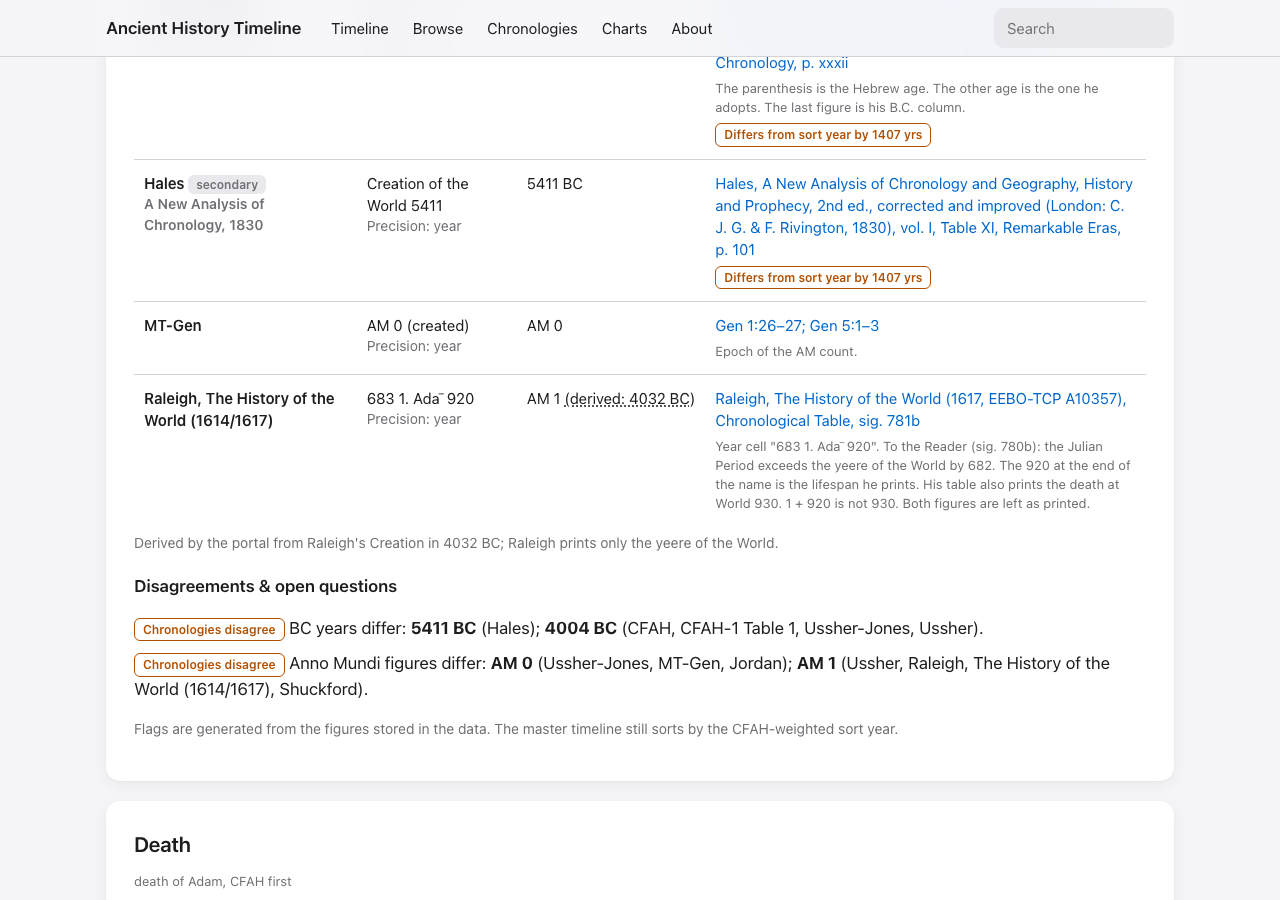
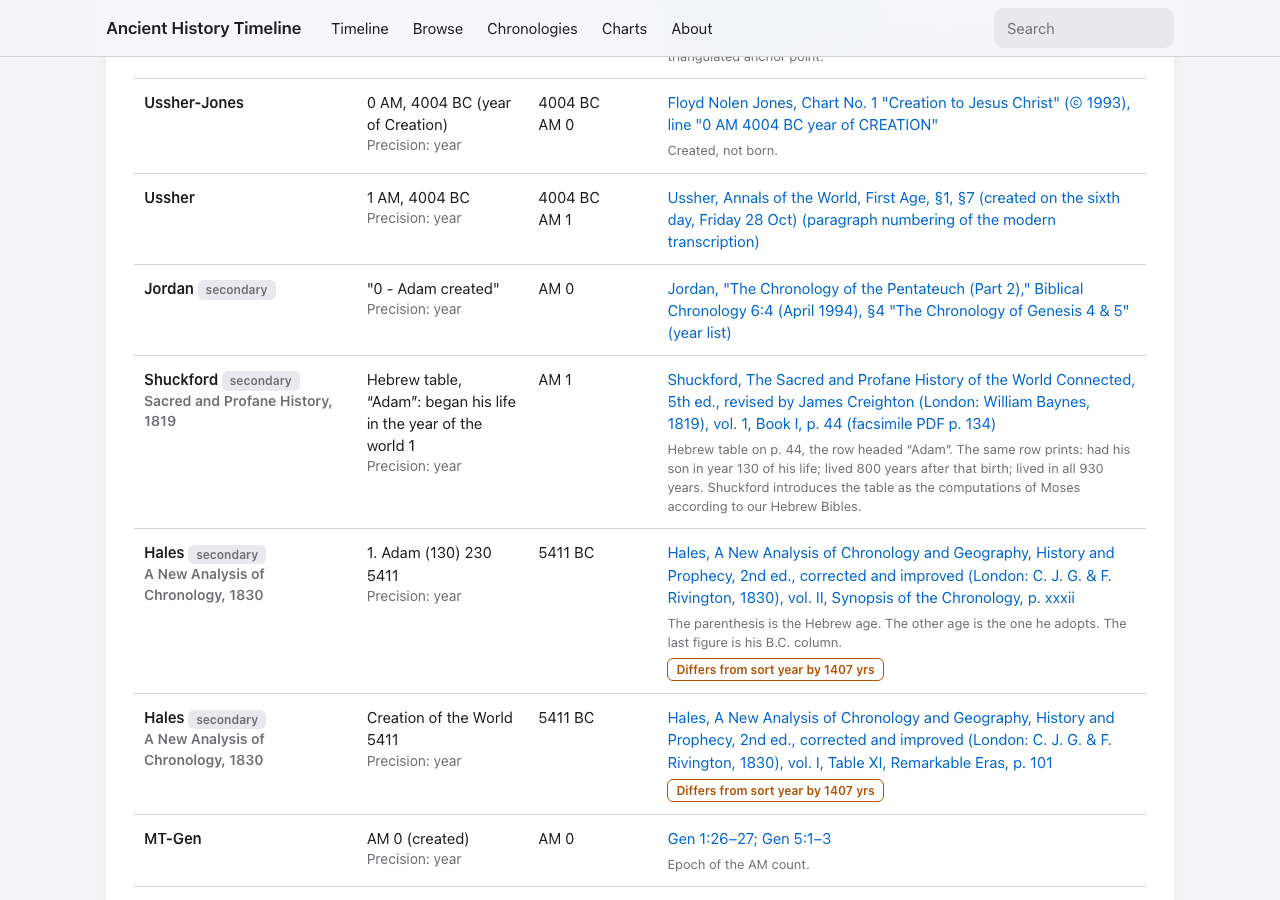
Show Raleigh's derived year as an italic BC or AD date.
Kevin closed G11 on 2026-10-28: keep AM 1 = 4032 BC. The Julian Period column implies 4031 BC; that reading is recorded and is not the formula. The inline word "derived" is gone. A page that shows an italic year says "Dates in italics are derived." The year still does not set sorting_year.

diff --git a/site/src/styles.css b/site/src/styles.css
@@ -114,6 +114,7 @@ ol.name-notes li { margin: 8px 0; font-size: 14px; }
 .tag-preprint { font-style: italic; border-style: dashed; }
 .note { font-size: 13px; color: var(--label-2); margin-top: 6px; }
 .derived { text-decoration: underline dotted; text-underline-offset: 0.15em; }
+.raleigh-derived em, table.chron em, .lede em { font-style: italic; }
 .raleigh-derived-note { margin: 8px 0 0; }
 .flags { margin-top: 6px; display: flex; gap: 6px; flex-wrap: wrap; }
 .flag { display: inline-block; font-size: 12px; font-weight: 600; padding: 2px 8px; border-radius: 6px; border: 1px solid currentColor; }

diff --git a/docs/OPEN-QUESTIONS-FOR-KEVIN.md b/docs/OPEN-QUESTIONS-FOR-KEVIN.md
@@ -844,13 +844,19 @@ Decision (2026-10-23): Raleigh stays AM only. No BC parenthetical will be added.
 
 Superseded for display only on 2026-10-28. See G11. `year_bc_ad` on his entries still stays null.
 
-### G11. Derived BC beside Raleigh's yeere of the World (2026-10-28)
+### G11. Derived BC beside Raleigh's yeere of the World — decided 2026-10-28
 
 Kevin's ruling, 28 October 2026: "All of Raleigh's AM dates should provide the BC calculated date in parentheses based on his Year of creation in 4032 BC."
 
-The page now shows that parenthetical beside every legible yeere of the World. AM 1 is taken as 4032 BC. A year before Christ is 4033 minus AM. When AM is 4033 or later, the year of our Lord is AM minus 4032. There is no year 0. The parenthetical is not written into `year_bc_ad`. It does not set `sorting_year`, a standby placement, a span, or a tier.
+**Decided by Kevin on 2026-10-28: keep the anchor. AM 1 = 4032 BC (`RALEIGH_CREATION_BC = 4032`).**
 
-Off by one, for confirmation. To the Reader begins on sig. 780b. On sig. 781a he writes: "This IVLIAN Perioà, after the present accompt, alwayes exceedes the yeares of the World by 682." On sig. 780b the worked example is: "That IEHOSOPHAT began his 〈◊ 〉 in the 3774. of the IVLIAN Aera, in the 3092. of the World, and in the 99. yeare os the Temple." 3774 − 3092 is 682. The table's first year cell, sig. 781b, is "683 1. Adaˉ 920", so AM 1 is Julian Period 683. The portal takes Julian Period 1 as 4713 BC, so Julian Period 683 is 4031 BC, one year earlier than the 4032 anchor. The page uses 4032, not 4031.
+Raleigh's Julian Period column (JP 683 = AM 1, sig. 781b) implies 4031 BC under JP 1 = 4713 BC. Kevin chose 4032. The 4031 reading is recorded here and is not the formula.
+
+The page shows `AM 1656` and an italic `2377 BC`, written `AM 1656 (<em>2377 BC</em>)`. Only the BC or AD year is italic. Adam is `AM 1` and italic `4032 BC`. A year of our Lord, from AM 4033, is italic the same way, for example `AD 1`. The word "derived" is not written beside the year. A page that shows at least one italic year says "Dates in italics are derived" and names this Creation anchor. The year is not written into `year_bc_ad`. It does not set `sorting_year`, a standby placement, a span, or a tier. A cell marked "Not derived" stays as printed.
+
+A year before Christ is 4033 minus AM. When AM is 4033 or later, the year of our Lord is AM minus 4032. There is no year 0.
+
+To the Reader begins on sig. 780b. On sig. 781a he writes: "This IVLIAN Perioà, after the present accompt, alwayes exceedes the yeares of the World by 682." On sig. 780b the worked example is: "That IEHOSOPHAT began his 〈◊ 〉 in the 3774. of the IVLIAN Aera, in the 3092. of the World, and in the 99. yeare os the Temple." 3774 − 3092 is 682. The table's first year cell, sig. 781b, is "683 1. Adaˉ 920", so AM 1 is Julian Period 683. The portal takes Julian Period 1 as 4713 BC, so Julian Period 683 is 4031 BC, one year earlier than the 4032 anchor. Kevin chose 4032.
 
 He does print a few years of our Lord, and one span "before Christ borne". None of them converts a yeere of the World:
 
@@ -862,7 +868,7 @@ He does print a few years of our Lord, and one span "before Christ borne". None 
 - sig. 524b: "yeere of our Lord, One thousand, foure hundred, ninetie and fiue".
 - sig. 781a: Queen Elizabeth, "the 17. of Nouember, in the yeare of our LORD 1558".
 
-**Question:** confirm that the parenthetical should stay on 4032 BC, one year later than the Julian Period reading of 4031 BC.
+**Closed.** Kevin confirmed on 2026-10-28 that the italic year stays on 4032 BC, one year later than the Julian Period reading of 4031 BC.
 
 ## I. Names on person pages (2026-10-24)
 

diff --git a/AGENTS.md b/AGENTS.md
@@ -41,7 +41,7 @@ The rules also apply to any other coding agent working here. Grok Build is the b
 
 Further rules:
 
-- Record dates **as printed**. Do not convert AM to BC, or reign lengths to BC years, unless the source itself does. A year you work out yourself goes only in the `note`, labelled `DERIVED`, with the arithmetic and its anchor. The one exception is display text for Raleigh's yeere of the World (Kevin, 28 Oct 2026): a parenthetical computed in `scripts/raleigh/derived-year.mjs` from Creation in 4032 BC. It is not written into `year_bc_ad`, and it never sets `sorting_year`, a standby placement, a span, or a tier.
+- Record dates **as printed**. Do not convert AM to BC, or reign lengths to BC years, unless the source itself does. A year you work out yourself goes only in the `note`, labelled `DERIVED`, with the arithmetic and its anchor. The one exception is display text for Raleigh's yeere of the World (Kevin, 28 Oct 2026): `AM` and an italic BC or AD year, computed in `scripts/raleigh/derived-year.mjs` from Creation in 4032 BC. Kevin kept 4032 on 2026-10-28 (G11). The Julian Period column implies 4031 BC; that reading is not the formula. The italic year is not written into `year_bc_ad`, and it never sets `sorting_year`, a standby placement, a span, or a tier.
 - If a source is ambiguous, damaged or self-contradictory, record what it says and flag it. **Do not silently resolve it.** Add it to:
   - `docs/OPEN-QUESTIONS-FOR-KEVIN.md`: next free item in the right section, with the question, why it matters, the options and a recommendation.
   - `scripts/cfah/inconsistencies.mjs`: internal CFAH inconsistencies, as the next `I<n>` (currently I1–I22).
@@ -116,7 +116,7 @@ https://biblehub.com/blb/<slug>/<chapter>.htm#<verse>
   - The person's own events, birth and death are **solid**. Other events in the lifespan are **faded** context.
   - Every item is a real link, with an ordered list fallback and a legend.
   - `site/verify-timelines.mjs` checks this in Chromium and WebKit; it must still pass.
-- **BC axis:** no year 0. BC year *y* maps to axis year *y*, and AD year *y* maps to *y − 1*. The build never converts AM to BC, except the Raleigh display parenthetical, which is not placed on the axis.
+- **BC axis:** no year 0. BC year *y* maps to axis year *y*, and AD year *y* maps to *y − 1*. The build never converts AM to BC, except Raleigh's italic display year, which is not placed on the axis.
 - **Asset URLs** are versioned (`?v=<hash>`). Keep the cache-busting step in `site/build.mjs`.
 - **Accessibility:** every timeline has a keyboard and screen-reader list alternative. Use colour plus a text or pattern cue, never colour alone.
 - **Third-party credit:** OpenBible.info (CC BY 4.0), OSM tiles, LoC maps and the bundled library licences stay credited.

diff --git a/sources/raleigh/README.md b/sources/raleigh/README.md
@@ -34,4 +34,4 @@ Verification on 2026-10-17: every file parses as well-formed XML, and every file
 
 ## Use in the data
 - `data/sources.json` → `raleigh-history-of-the-world-1617` (primary text). `raleigh-history-of-the-world-1736` (Internet Archive, 11th ed.) is kept as the secondary reading copy.
-- The 1617 chronological table is now in the portal as display-only `raleigh-history-of-the-world` entries: his yeere of the World stays in `year_am`, `year_bc_ad` stays null, and the sort does not change. The site shows a derived parenthetical from his Creation in 4032 BC. Raleigh prints only the yeere of the World. The whole table is also reproduced at `/chronologies/raleigh-chronological-table/` (modern spelling by default, original spelling by a toggle, with CSV, Markdown, and Excel downloads). The log is `docs/raleigh-pass-log.md`, and every skipped figure is quoted in `data/raleigh-dates-extract.md`. The 1736 edition remains a reading copy in `data/sources.json` and is no longer cited on the chronology anchors.
+- The 1617 chronological table is now in the portal as display-only `raleigh-history-of-the-world` entries: his yeere of the World stays in `year_am`, `year_bc_ad` stays null, and the sort does not change. The site shows an italic BC or AD year from his Creation in 4032 BC (Kevin, 2026-10-28). Raleigh prints only the yeere of the World. The whole table is also reproduced at `/chronologies/raleigh-chronological-table/` (modern spelling by default, original spelling by a toggle, with CSV, Markdown, and Excel downloads). The log is `docs/raleigh-pass-log.md`, and every skipped figure is quoted in `data/raleigh-dates-extract.md`. The 1736 edition remains a reading copy in `data/sources.json` and is no longer cited on the chronology anchors.

diff --git a/docs/REVIEW-CHECKLIST.md b/docs/REVIEW-CHECKLIST.md
@@ -29,7 +29,7 @@ npm ci
 - [ ] **No invented material:** no date, event, person, place, URL or citation without a source that was read.
   - Every new URL resolves: `curl -sIL` each new host, or open it.
   - No URL is a guessed pattern: open at least one per host.
-- [ ] No conversions the source does not make (AM→BC, reign length→BC year). Any derived year is in the note, labelled DERIVED, with its arithmetic. The one display exception is Raleigh's yeere of the World: a parenthetical from Creation in 4032 BC (`scripts/raleigh/derived-year.mjs`). It does not change `year_bc_ad`, sort, standby, spans, or tiers.
+- [ ] No conversions the source does not make (AM→BC, reign length→BC year). Any derived year is in the note, labelled DERIVED, with its arithmetic. The one display exception is Raleigh's yeere of the World: an italic BC or AD year from Creation in 4032 BC (`scripts/raleigh/derived-year.mjs`; G11, Kevin, 2026-10-28). It does not change `year_bc_ad`, sort, standby, spans, or tiers.
 - [ ] Conflicts and self-contradictions are recorded in `docs/OPEN-QUESTIONS-FOR-KEVIN.md`, or for CFAH as a new `I<n>` in `scripts/cfah/inconsistencies.mjs`, and not silently resolved.
 - [ ] The PD basis is stated for every new source and fits the edition. US: 1930 or earlier; 1931–1964 needs a renewal check; modern translations count as copyrighted.
 

diff --git a/docs/raleigh-pass-log.md b/docs/raleigh-pass-log.md
@@ -1,6 +1,6 @@
 # Raleigh pass log
 
-Imported from the 1617 chronological table. Raleigh is display-only. No sorting year was changed. Display titles use modern English spelling. His printed spelling is an alternate name. He states that the Julian Period exceeds the yeere of the World by 682. He does not state a BC conversion, so year_bc_ad stays null. The site shows a derived parenthetical from Creation in 4032 BC. The whole table is reproduced at `/chronologies/raleigh-chronological-table/` (modern spelling by default, original spelling by a toggle, with CSV, Markdown, and Excel downloads).
+Imported from the 1617 chronological table. Raleigh is display-only. No sorting year was changed. Display titles use modern English spelling. His printed spelling is an alternate name. He states that the Julian Period exceeds the yeere of the World by 682. He does not state a BC conversion, so year_bc_ad stays null. The site shows an italic BC or AD year from Creation in 4032 BC (Kevin, 2026-10-28). The whole table is reproduced at `/chronologies/raleigh-chronological-table/` (modern spelling by default, original spelling by a toggle, with CSV, Markdown, and Excel downloads).
 
 - Records updated or created with a Raleigh entry: 203
 - Dated statements written: 216

diff --git a/data/raleigh-dates-extract.md b/data/raleigh-dates-extract.md
@@ -1,6 +1,6 @@
 # Raleigh, *The History of the World* (1617) — dates
 
-Edition read: London, printed by William Stansby for Walter Burre, 1617. EEBO-TCP A10357, EarlyPrint unadorned XML (`sources/raleigh/A10357.earlyprint-unadorned.xml`). Display only. year_bc_ad stays null. The site shows a derived parenthetical from Creation in 4032 BC; Raleigh prints only the yeere of the World.
+Edition read: London, printed by William Stansby for Walter Burre, 1617. EEBO-TCP A10357, EarlyPrint unadorned XML (`sources/raleigh/A10357.earlyprint-unadorned.xml`). Display only. year_bc_ad stays null. The site shows an italic BC or AD year from Creation in 4032 BC (Kevin, 2026-10-28); Raleigh prints only the yeere of the World.
 
 The chronological table (back matter, from sig. 781b) is Raleigh's index. "To the Reader" (sig. 780b) says it reforms press errors and his own mis-reckonings, and that the Julian Period exceeds the yeere of the World by 682. A year is recorded only when the printed pair differs by 682.
 

diff --git a/README.md b/README.md
@@ -112,7 +112,7 @@ search built at build time. No server, database, CMS or paid service. Vendor JS/
 **BC years on the timeline.** Data years are historical (negative = BC, no year 0). JavaScript dates need a continuous axis, so `app.js`
 maps BC year *y* to axis year *y* and AD year *y* to *y − 1*, and the axis labels convert back ("4500 BC"). Round ticks therefore read as round
 BC years and no year 0 is ever shown. AM figures are shown per record exactly as each chronology gives them. The build never converts between
-AM and BC, except a display parenthetical beside Raleigh's yeere of the World (Creation in 4032 BC). That parenthetical is not written into `year_bc_ad` and is not placed on the axis.
+AM and BC, except an italic display year beside Raleigh's yeere of the World (Creation in 4032 BC; Kevin, 2026-10-28). That year is not written into `year_bc_ad` and is not placed on the axis.
 
 ### Build and preview locally
 ```

diff --git a/docs/open-questions.md b/docs/open-questions.md
@@ -12,6 +12,7 @@
   This is implemented with `cfah_basis` (`anchor_point` | `table1_baseline`) on cfah entries, a separate `ussher-jones` chronology, and
   `sorting_basis.tier`/`tier_rank`. It is enforced by `scripts/validate.mjs`.
 - ~~Reign-start sorting for a king or judge with no tier birth~~. **Kevin decided on 2026-10-28** (open question M3): the start year already stored on `dates.reign` sets the sort, and `sorting_basis.slot` is `reign_start`. A tier-ranked birth year still wins.
+- ~~Raleigh's Creation anchor for the display year~~. **Kevin decided on 2026-10-28** (G11): keep AM 1 = 4032 BC. Raleigh's Julian Period column (JP 683 = AM 1, sig. 781b) implies 4031 BC under JP 1 = 4713 BC. Kevin chose 4032. The italic year is display only and does not set `sorting_year`.
 
 ## Open
 1. **CFAH coverage.** Only 6 of the planned 20 CFAH papers are published. The current records have these CFAH dates:
